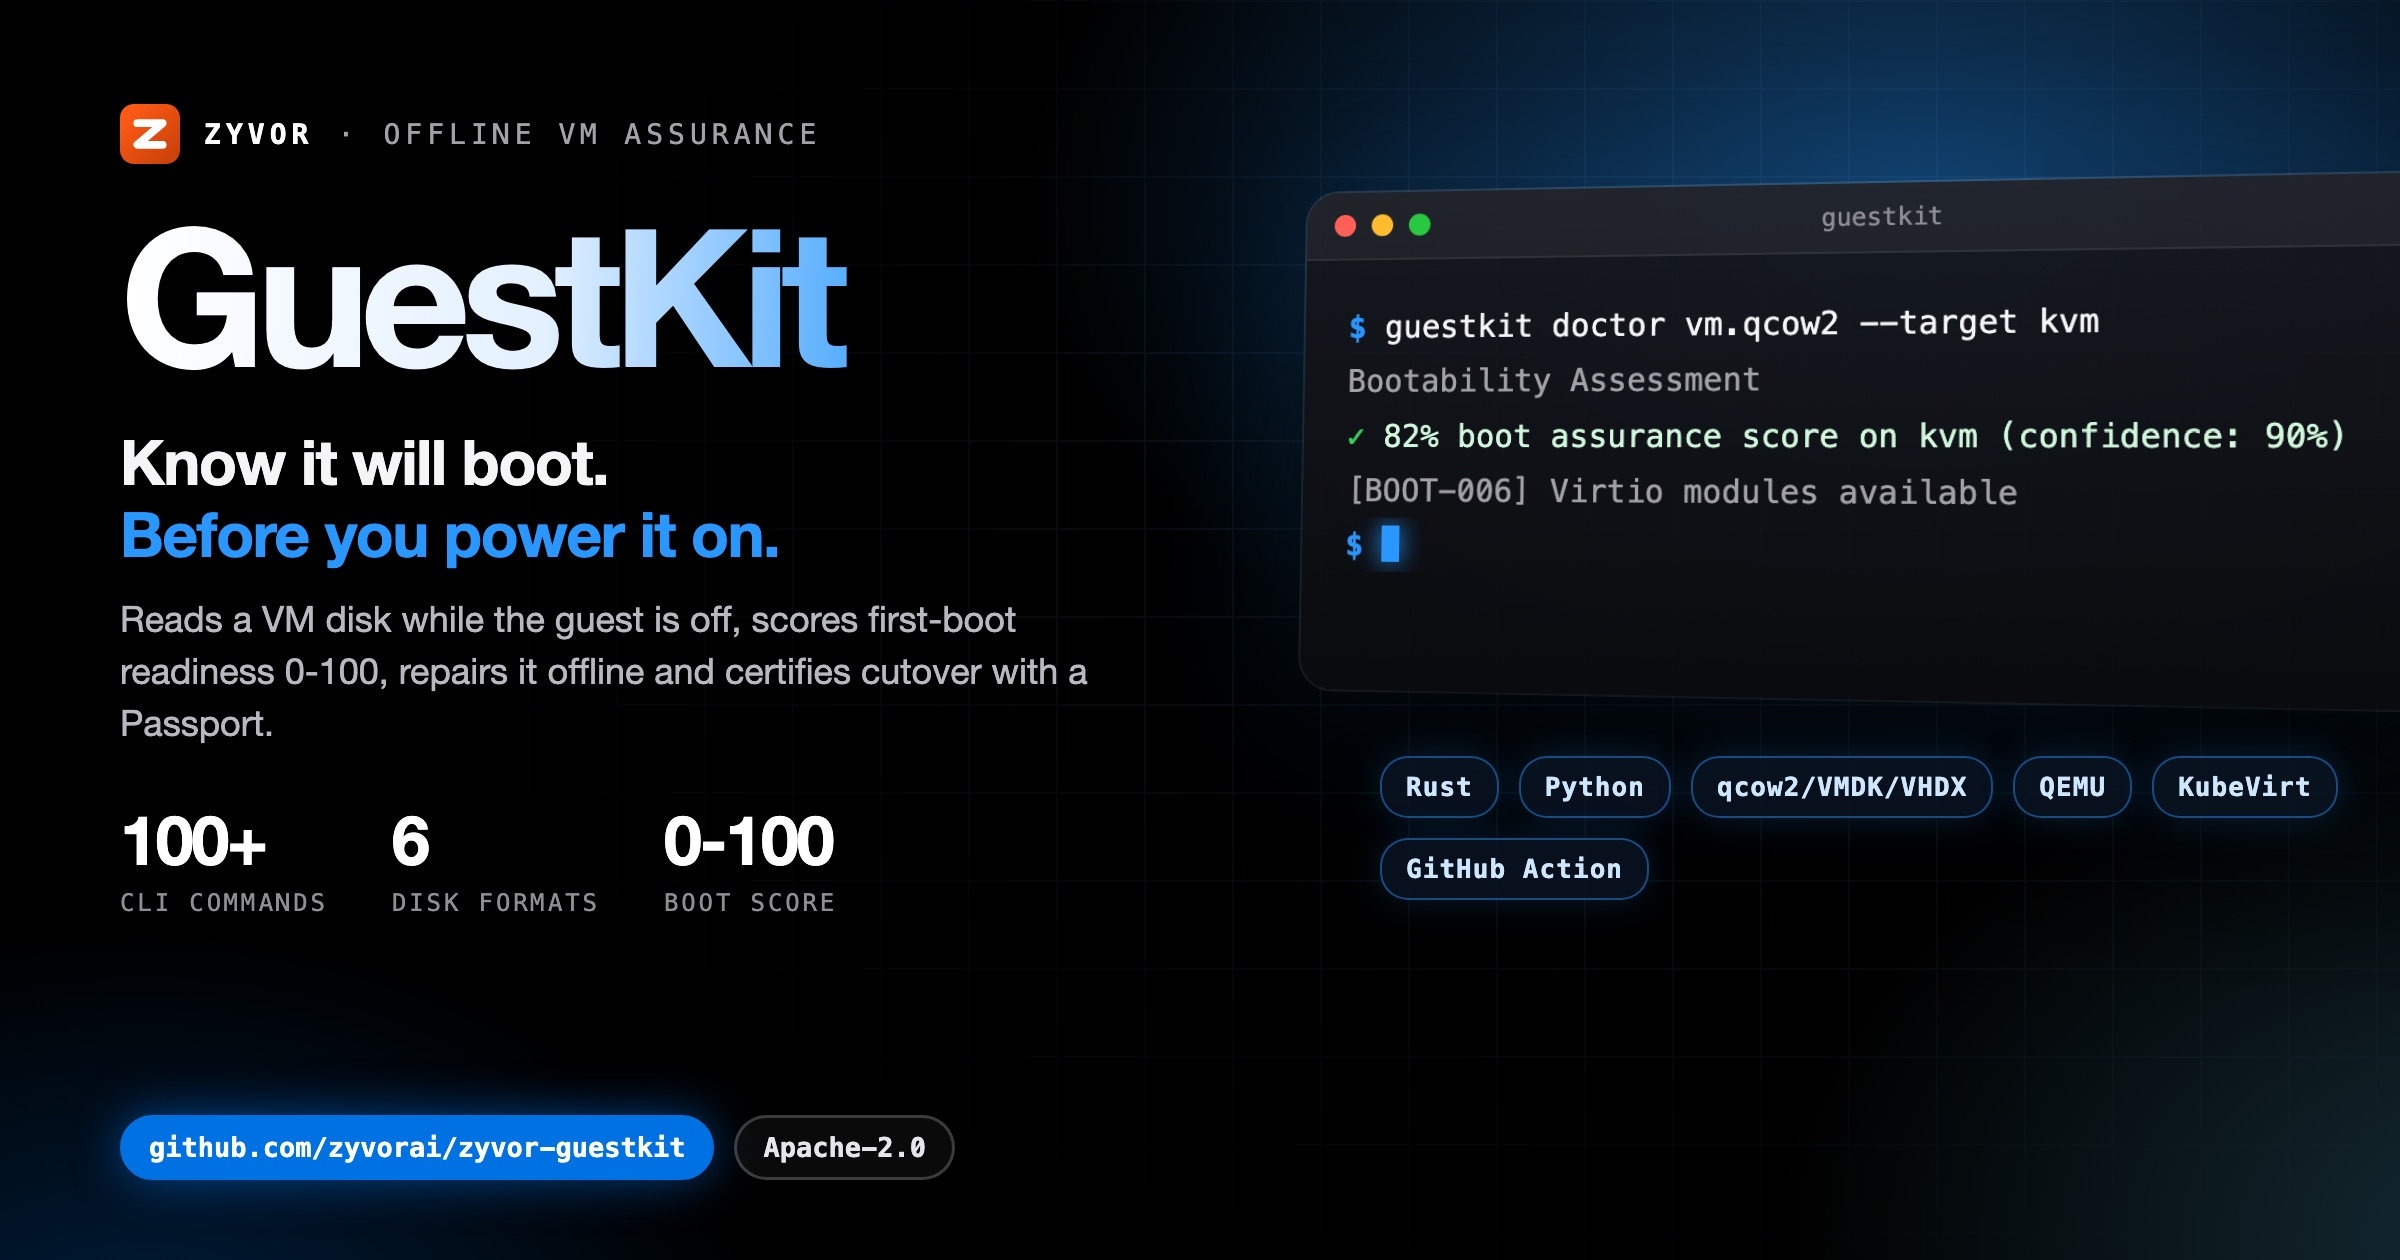
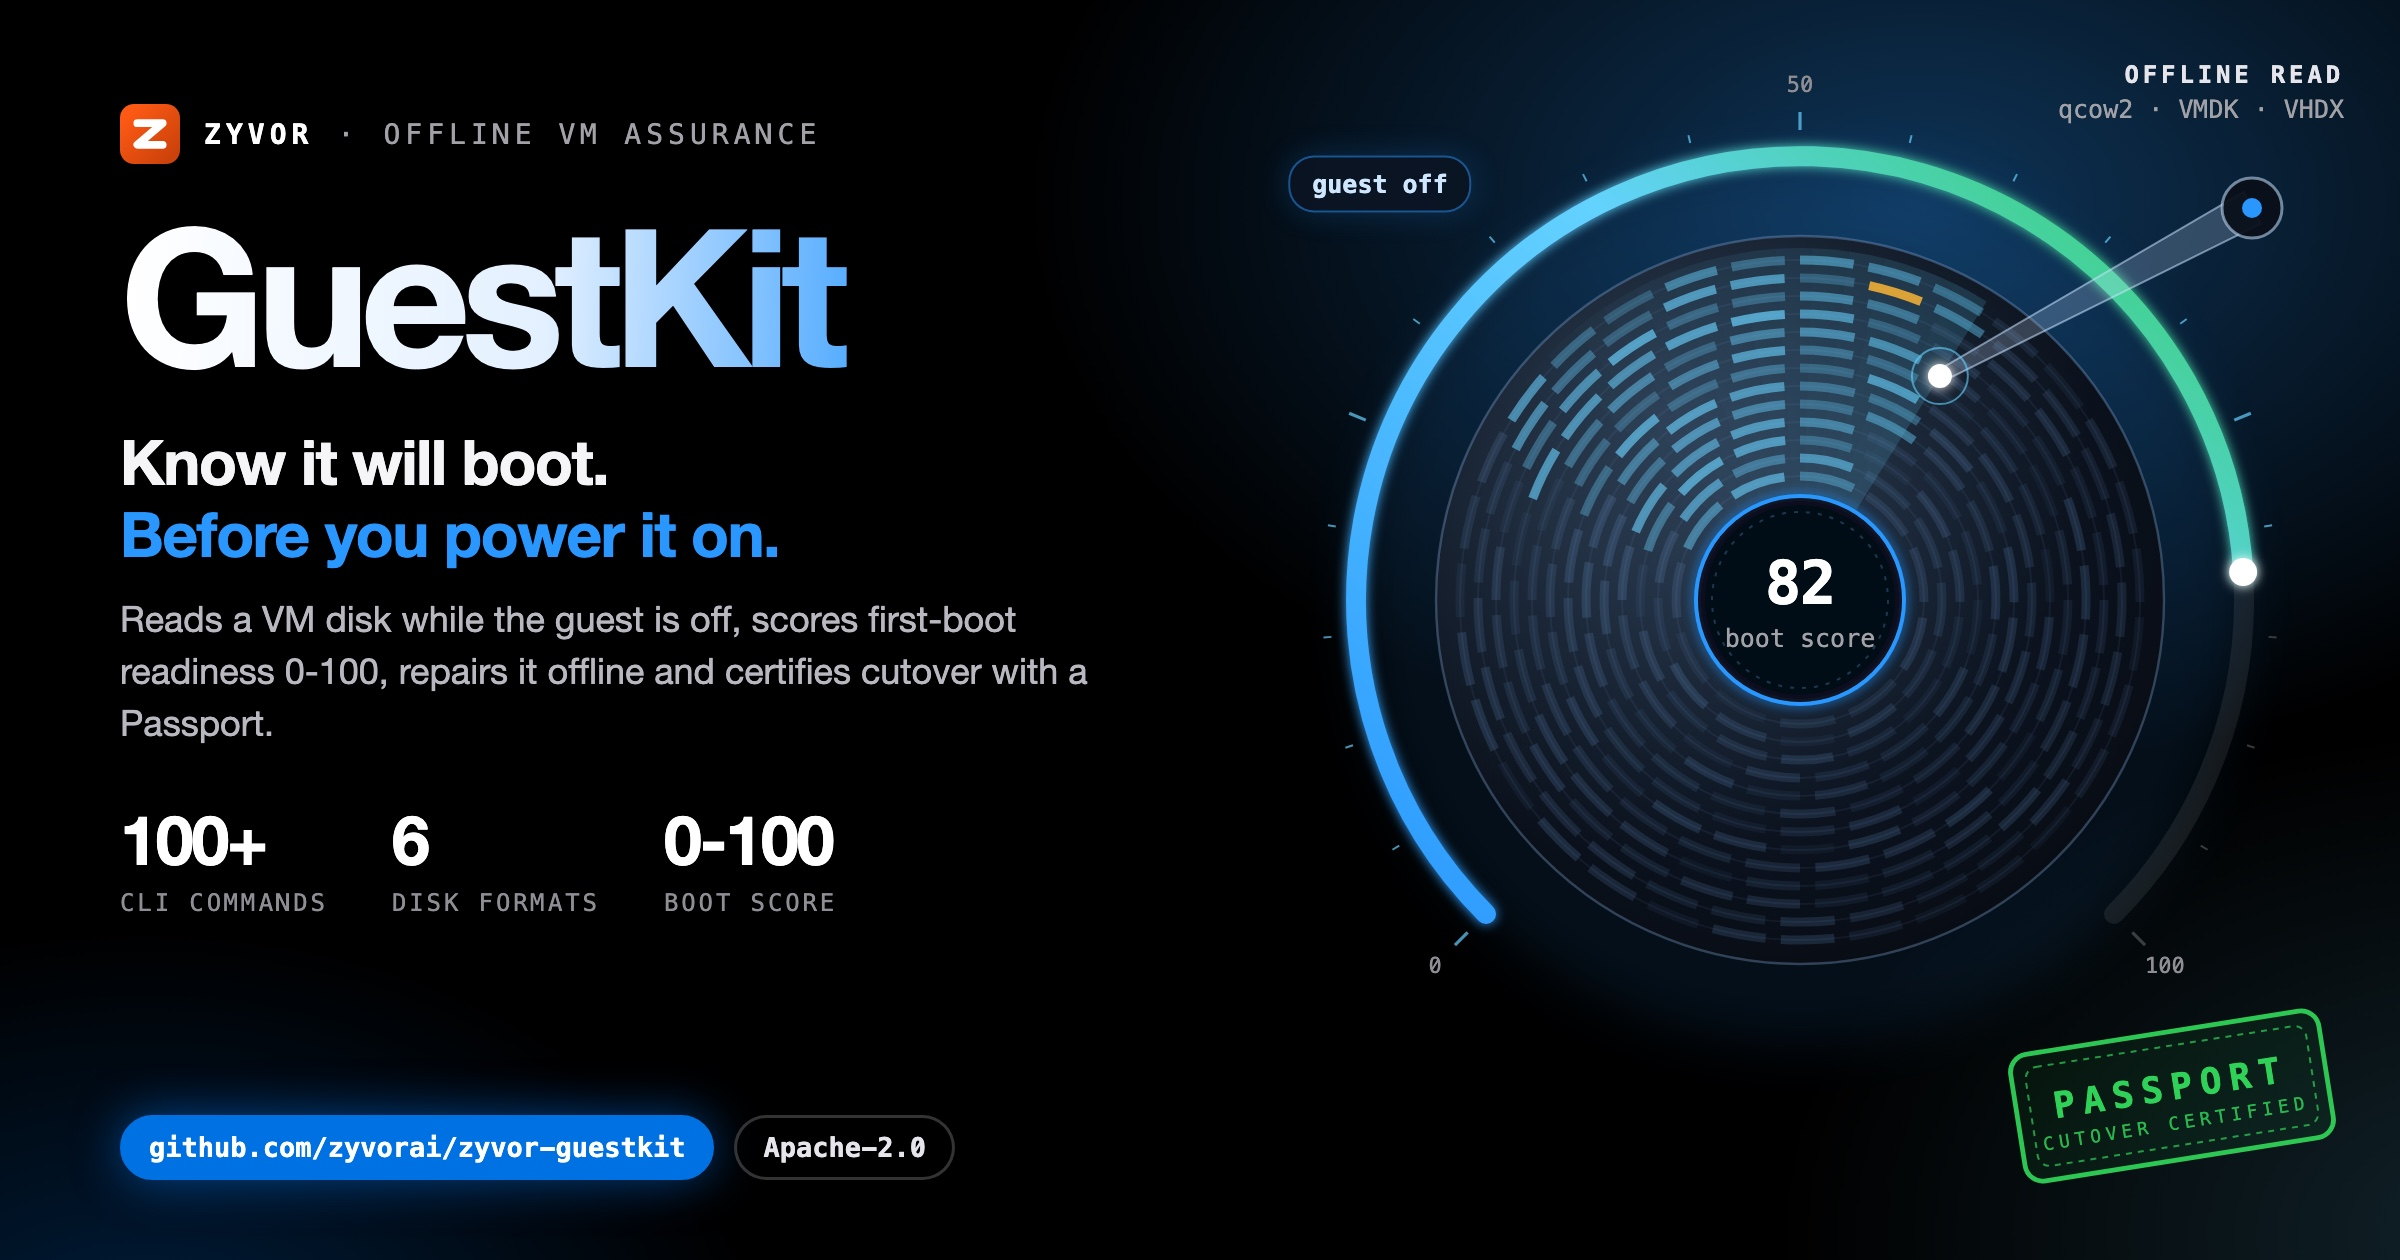
docs(social): unique illustrated hero card
Replace the shared terminal-window art with a motif drawn for this project;
same verified copy and stats on the left.

Changed region(s): [[0.5312, 0.0929, 1.0, 0.8048], [0.8438, 0.8048, 0.9688, 0.9595], [0.8438, 0.031, 0.9688, 0.0929]]

diff --git a/docs/social/guestkit-hero-dark.html b/docs/social/guestkit-hero-dark.html
@@ -8,58 +8,47 @@
   Build: ./docs/social/build-hero-dark.sh  ->  guestkit-hero-dark.jpg (2400x1260)
 -->
 <style>
-  :root { --blue:#0071e3; --signal:#2997ff; --cyan:#64d2ff; --green:#30d158; --amber:#ff9f0a;
+  :root { --blue:#0071e3; --signal:#2997ff; --cyan:#64d2ff; --green:#30d158; --amber:#ff9f0a; --red:#ff453a; --violet:#bf5af2;
     --sans:'SF Pro Display','Helvetica Neue',Helvetica,Arial,sans-serif; --mono:'SF Mono',Menlo,Consolas,monospace; }
   * { box-sizing:border-box; }
   html,body { margin:0; padding:0; }
   body { width:1200px; height:630px; overflow:hidden; color:#f5f5f7; font-family:var(--sans); position:relative; background:#000; }
   .aurora { position:absolute; inset:0;
-    background:radial-gradient(720px 460px at 80% 16%, rgba(41,151,255,.40), transparent 62%),
-               radial-gradient(600px 420px at 104% 98%, rgba(100,210,255,.20), transparent 60%),
+    background:radial-gradient(720px 460px at 80% 16%, rgba(41,151,255,.34), transparent 62%),
+               radial-gradient(600px 420px at 104% 98%, rgba(100,210,255,.16), transparent 60%),
                radial-gradient(520px 380px at 6% 110%, rgba(0,113,227,.28), transparent 60%); }
-  .grid { position:absolute; inset:0; opacity:.09;
-    background-image:linear-gradient(rgba(120,180,255,.9) 1px,transparent 1px),linear-gradient(90deg,rgba(120,180,255,.9) 1px,transparent 1px);
-    background-size:44px 44px; -webkit-mask-image:radial-gradient(900px 520px at 72% 42%, #000 18%, transparent 75%); }
-  .left { position:absolute; left:60px; top:52px; width:560px; z-index:3; }
+  .copy { position:absolute; left:60px; top:52px; width:560px; z-index:3; }
   .brand { display:flex; align-items:center; gap:12px; font-family:var(--mono); font-size:14px; letter-spacing:.18em; text-transform:uppercase; color:#a1a1a6; }
   .brand b { color:#fff; }
   .word { margin:20px 0 0; font-size:96px; line-height:.95; font-weight:800; letter-spacing:-.05em; white-space:nowrap;
     background:linear-gradient(92deg,#fff 0%,#e3f0ff 38%,var(--signal) 74%,var(--cyan) 100%); -webkit-background-clip:text; background-clip:text; color:transparent; padding-bottom:6px; }
   .tag { margin:14px 0 0; font-size:31px; line-height:1.15; font-weight:700; letter-spacing:-.02em; }
   .tag em { font-style:normal; color:var(--signal); }
-  .lede { margin:12px 0 0; font-size:18px; line-height:1.45; color:#b8b8bf; width:520px; }
+  .lede { margin:12px 0 0; font-size:18px; line-height:1.45; color:#b8b8bf; width:520px; text-shadow:0 1px 12px #000; }
   .stats { margin-top:24px; display:flex; gap:32px; }
   .stat b { display:block; font-size:34px; font-weight:800; letter-spacing:-.03em; color:#fff; }
   .stat span { font-family:var(--mono); font-size:12px; letter-spacing:.12em; text-transform:uppercase; color:#8e8e93; }
   .pill { position:absolute; left:60px; bottom:40px; display:flex; gap:10px; z-index:3; }
-  .pill span { font-family:var(--mono); font-size:13.5px; font-weight:700; padding:7px 13px; border-radius:18px; border:1.5px solid rgba(255,255,255,.2); color:#e5e5ea; background:rgba(255,255,255,.04); }
+  .pill span { font-family:var(--mono); font-size:13.5px; font-weight:700; padding:7px 13px; border-radius:18px; border:1.5px solid rgba(255,255,255,.2); color:#e5e5ea; background:rgba(0,0,0,.6); }
   .pill span.b { background:var(--blue); border-color:var(--blue); color:#fff; box-shadow:0 0 24px rgba(0,113,227,.55); }
-
-  .right { position:absolute; left:652px; top:96px; width:560px; z-index:2; }
-  .win { position:relative; width:560px; border-radius:16px; overflow:hidden; z-index:2;
-    background:linear-gradient(180deg, rgba(22,24,30,.94), rgba(10,11,14,.96));
-    box-shadow:0 50px 100px rgba(0,0,0,.75), 0 0 0 1px rgba(255,255,255,.14), 0 0 90px rgba(41,151,255,.22);
-    transform:perspective(1600px) rotateY(-14deg) rotateX(4deg); transform-origin:left center; }
-  .bar { height:34px; display:flex; align-items:center; gap:8px; padding:0 14px; background:rgba(255,255,255,.05); border-bottom:1px solid rgba(255,255,255,.07); }
-  .bar i { width:11px; height:11px; border-radius:50%; background:#ff5f57; } .bar i:nth-child(2){background:#febc2e} .bar i:nth-child(3){background:#28c840}
-  .bar em { margin-left:auto; margin-right:auto; font-style:normal; font-family:var(--mono); font-size:12px; color:#8e8e93; transform:translateX(-24px); }
-  .term { min-height:214px; padding:20px 22px 24px; font-family:var(--mono); font-size:15.5px; line-height:1.75; }
-  .l { white-space:pre; overflow:hidden; text-overflow:ellipsis; color:#f5f5f7; }
-  .l .p { color:var(--signal); font-weight:700; }
-  .l.out { color:#a1a1a6; }
-  .l.cm { color:#6e6e73; }
-  .l.ok { color:#d1f7dc; } .l.ok span { color:var(--green); font-weight:700; }
-  .l.warn { color:#ffe1b0; } .l.warn span { color:var(--amber); font-weight:700; }
-  .cur { display:inline-block; width:9px; height:18px; background:var(--signal); vertical-align:-3px; box-shadow:0 0 12px var(--signal); }
-  .chips { margin:34px 0 0 38px; width:480px; display:flex; flex-wrap:wrap; gap:10px; position:relative; z-index:3; }
-  .chips span { font-family:var(--mono); font-size:13px; font-weight:700; letter-spacing:.04em; padding:7px 12px; border-radius:14px;
-    color:#cfe6ff; background:rgba(10,20,35,.82); border:1px solid rgba(41,151,255,.45); box-shadow:0 0 18px rgba(41,151,255,.18); }
+  .art { position:absolute; left:520px; top:0; width:680px; height:630px; z-index:2; }
+  .art svg { display:block; }
+  #labels { position:absolute; inset:0; z-index:4; pointer-events:none; }
+  .lbl { position:absolute; font-family:var(--mono); font-size:12.5px; color:#a1a1a6; text-align:center; transform:translate(-50%,-50%); white-space:nowrap; }
+  .lbl b { display:block; font-size:12px; letter-spacing:.16em; text-transform:uppercase; color:#e5e5ea; }
+  .lbl span { display:block; margin-top:3px; }
+  .lbl.box { padding:7px 12px; border-radius:12px; background:rgba(8,10,14,.85); border:1px solid rgba(255,255,255,.14); }
+  .lbl.chip { padding:6px 11px; border-radius:13px; font-size:12.5px; font-weight:700; color:#cfe6ff; background:rgba(10,20,35,.85); border:1px solid rgba(41,151,255,.5); box-shadow:0 0 16px rgba(41,151,255,.2); }
+  .lbl.left { transform:translate(0,-50%); text-align:left; }
+  .lbl.right { transform:translate(-100%,-50%); text-align:right; }
+  .ok { color:var(--green) !important; } .warn { color:var(--amber) !important; } .bad { color:var(--red) !important; } .sig { color:var(--signal) !important; } .cy { color:var(--cyan) !important; } .vi { color:var(--violet) !important; }
 </style>
 </head>
 <body>
 <div class="aurora"></div>
-<div class="grid"></div>
-<div class="left">
+<div class="art"><svg id="art" width="680" height="630" viewBox="0 0 680 630" xmlns="http://www.w3.org/2000/svg"></svg></div>
+<div id="labels"></div>
+<div class="copy">
   <div class="brand"><svg viewBox="0 0 64 64" width="30" height="30" aria-hidden="true"><defs><linearGradient id="zb" x1="8" y1="8" x2="56" y2="56" gradientUnits="userSpaceOnUse"><stop offset="0" stop-color="#ff5a15"/><stop offset="1" stop-color="#cc420a"/></linearGradient></defs><rect width="64" height="64" rx="15" fill="url(#zb)"/><path d="M18.5,20.5 45.5,20.5 18.5,43.5 45.5,43.5" fill="none" stroke="#fff" stroke-width="8.3" stroke-linecap="round" stroke-linejoin="round"/></svg><b>Zyvor</b><span>&middot;</span><span>Offline VM assurance</span></div>
   <div class="word">GuestKit</div>
   <div class="tag">Know it will boot.<br><em>Before you power it on.</em></div>
@@ -67,8 +56,95 @@
   <div class="stats"><div class="stat"><b>100+</b><span>CLI commands</span></div><div class="stat"><b>6</b><span>disk formats</span></div><div class="stat"><b>0-100</b><span>boot score</span></div></div>
 </div>
 <div class="pill"><span class="b">github.com/zyvorai/zyvor-guestkit</span><span>Apache-2.0</span></div>
-<div class="right"><div class="win"><div class="bar"><i></i><i></i><i></i><em>guestkit</em></div>
-<div class="term"><div class="l"><span class="p">$</span> guestkit doctor vm.qcow2 --target kvm</div><div class="l out">Bootability Assessment</div><div class="l ok"><span>&#10003;</span> 82% boot assurance score on kvm (confidence: 90%)</div><div class="l out">[BOOT-006] Virtio modules available</div><div class="l"><span class="p">$</span> <i class="cur"></i></div></div></div>
-<div class="chips"><span>Rust</span><span>Python</span><span>qcow2/VMDK/VHDX</span><span>QEMU</span><span>KubeVirt</span><span>GitHub Action</span></div></div>
+<script>
+var Z = (function () {
+  var NS = 'http://www.w3.org/2000/svg', svg = document.getElementById('art'), labels = document.getElementById('labels');
+  var seed = 20261004;
+  function rnd() { seed = (seed * 1103515245 + 12345) % 2147483648; return seed / 2147483648; }
+  function el(tag, a, parent) { var n = document.createElementNS(NS, tag); for (var k in a) n.setAttribute(k, a[k]); (parent || svg).appendChild(n); return n; }
+  function g(attrs) { return el('g', attrs || {}); }
+  function label(x, y, inner, cls, style) { var d = document.createElement('div'); d.className = 'lbl ' + (cls || ''); d.style.left = (520 + x) + 'px'; d.style.top = y + 'px'; if (style) d.setAttribute('style', d.getAttribute('style') + ';' + style); d.innerHTML = inner; labels.appendChild(d); return d; }
+  return { NS: NS, svg: svg, W: 680, H: 630, rnd: rnd, el: el, g: g, label: label,
+    reseed: function (s) { seed = s; },
+    c: { blue: '#0071e3', signal: '#2997ff', cyan: '#64d2ff', green: '#30d158', amber: '#ff9f0a', red: '#ff453a', violet: '#bf5af2', teal: '#40c8e0', indigo: '#5e5ce6', pink: '#ff375f', white: '#f5f5f7', grey: '#8e8e93' } };
+})();
+(function () {
+// GuestKit: a powered-off disk platter read under a scanning head, wrapped by a 0-100 boot readiness gauge, with a Passport stamp.
+var C = Z.c, cx = 380, cy = 300, R = 182, D2R = Math.PI / 180;
+var defs = Z.el('defs', {});
+defs.innerHTML = '<filter id="gkgl" x="-50%" y="-50%" width="200%" height="200%"><feGaussianBlur stdDeviation="3" result="b"/><feMerge><feMergeNode in="b"/><feMergeNode in="SourceGraphic"/></feMerge></filter>' +
+  '<filter id="gksf" x="-50%" y="-50%" width="200%" height="200%"><feGaussianBlur stdDeviation="14"/></filter>' +
+  '<radialGradient id="gkpl" cx=".42" cy=".38" r=".7"><stop offset="0" stop-color="#1c2a3d"/><stop offset=".55" stop-color="#0d1522"/><stop offset="1" stop-color="#070b12"/></radialGradient>' +
+  '<radialGradient id="gksheen" cx=".3" cy=".25" r=".6"><stop offset="0" stop-color="#9fd0ff" stop-opacity=".16"/><stop offset="1" stop-color="#9fd0ff" stop-opacity="0"/></radialGradient>' +
+  '<linearGradient id="gkarc" x1="0" y1="1" x2="1" y2="0"><stop offset="0" stop-color="#2997ff"/><stop offset=".6" stop-color="#64d2ff"/><stop offset="1" stop-color="#30d158"/></linearGradient>';
+function pt(r, a) { return [cx + r * Math.cos(a * D2R), cy + r * Math.sin(a * D2R)]; }
+function arc(r, a0, a1) {
+  var p = pt(r, a0), q = pt(r, a1), big = (a1 - a0) > 180 ? 1 : 0;
+  return 'M' + p[0].toFixed(1) + ',' + p[1].toFixed(1) + ' A' + r + ',' + r + ' 0 ' + big + ' 1 ' + q[0].toFixed(1) + ',' + q[1].toFixed(1);
+}
+Z.el('circle', { cx: cx, cy: cy, r: R + 40, fill: C.signal, opacity: .1, filter: 'url(#gksf)' });
+// platter
+Z.el('circle', { cx: cx, cy: cy, r: R, fill: 'url(#gkpl)', stroke: 'rgba(160,200,255,.28)', 'stroke-width': 1.2 });
+var headA = -58, scanFrom = headA - 95;
+for (var r = 62; r <= R - 10; r += 9) {
+  Z.el('circle', { cx: cx, cy: cy, r: r, fill: 'none', stroke: 'rgba(140,190,255,.07)', 'stroke-width': 1 });
+  var n = Math.round(r / 5.5), step = 360 / n;
+  for (var s = 0; s < n; s++) {
+    var a0 = s * step - 90, a1 = a0 + step * 0.78, mid = a0 + step / 2, v = Z.rnd();
+    var norm = ((mid - scanFrom) % 360 + 360) % 360, scanned = norm < (headA - scanFrom);
+    var col = 'rgba(120,170,230,1)', op = 0.05 + v * 0.12;
+    if (scanned) { col = C.cyan; op = 0.25 + v * 0.45; }
+    if (v > 0.985 && scanned) { col = C.amber; op = 0.95; }
+    Z.el('path', { d: arc(r, a0, a1), fill: 'none', stroke: col, 'stroke-width': 4.5, opacity: op.toFixed(2) });
+  }
+}
+// scan wedge trailing the head
+for (var k = 0; k < 14; k++) {
+  var w0 = headA - (k + 1) * 6, w1 = headA - k * 6;
+  var p0 = pt(R - 6, w0), p1 = pt(R - 6, w1);
+  Z.el('path', { d: 'M' + cx + ',' + cy + ' L' + p0[0].toFixed(1) + ',' + p0[1].toFixed(1) + ' A' + (R - 6) + ',' + (R - 6) + ' 0 0 1 ' + p1[0].toFixed(1) + ',' + p1[1].toFixed(1) + 'Z',
+    fill: C.cyan, opacity: (0.16 * (1 - k / 14)).toFixed(3) });
+}
+Z.el('circle', { cx: cx, cy: cy, r: R, fill: 'url(#gksheen)' });
+// spindle hub
+Z.el('circle', { cx: cx, cy: cy, r: 52, fill: 'rgba(6,10,18,.95)', stroke: C.signal, 'stroke-width': 2, filter: 'url(#gkgl)' });
+Z.el('circle', { cx: cx, cy: cy, r: 44, fill: 'none', stroke: 'rgba(120,185,255,.25)', 'stroke-dasharray': '2 4' });
+// readiness gauge 0..100 around the platter
+var GR = 222, g0 = 135, gs = 270, score = 82;
+Z.el('path', { d: arc(GR, g0, g0 + gs), fill: 'none', stroke: 'rgba(255,255,255,.08)', 'stroke-width': 10, 'stroke-linecap': 'round' });
+Z.el('path', { d: arc(GR, g0, g0 + gs * score / 100), fill: 'none', stroke: 'url(#gkarc)', 'stroke-width': 10, 'stroke-linecap': 'round', filter: 'url(#gkgl)' });
+for (var t = 0; t <= 100; t += 5) {
+  var ta = g0 + gs * t / 100, a = pt(GR + 13, ta), b = pt(GR + (t % 25 === 0 ? 22 : 17), ta);
+  Z.el('line', { x1: a[0], y1: a[1], x2: b[0], y2: b[1], stroke: t <= score ? 'rgba(100,210,255,.7)' : 'rgba(255,255,255,.22)', 'stroke-width': t % 25 === 0 ? 1.6 : 1 });
+}
+[0, 50, 100].forEach(function (t) {
+  var p = pt(GR + 36, g0 + gs * t / 100);
+  var tx = Z.el('text', { x: p[0], y: p[1] + 4, 'text-anchor': 'middle', fill: '#8e8e93', 'font-family': 'SF Mono, Menlo, monospace', 'font-size': 11 });
+  tx.textContent = t;
+});
+var ep = pt(GR, g0 + gs * score / 100);
+Z.el('circle', { cx: ep[0], cy: ep[1], r: 7, fill: '#fff', filter: 'url(#gkgl)' });
+// read head arm
+var pv = [606, 104], hp = pt(132, headA);
+var ang = Math.atan2(hp[1] - pv[1], hp[0] - pv[0]), nx = -Math.sin(ang), ny = Math.cos(ang);
+Z.el('path', { d: 'M' + (pv[0] + nx * 9) + ',' + (pv[1] + ny * 9) + ' L' + (hp[0] + nx * 3) + ',' + (hp[1] + ny * 3) + ' L' + (hp[0] - nx * 3) + ',' + (hp[1] - ny * 3) + ' L' + (pv[0] - nx * 9) + ',' + (pv[1] - ny * 9) + 'Z',
+  fill: 'rgba(200,225,255,.22)', stroke: 'rgba(200,225,255,.55)', 'stroke-width': 1 });
+Z.el('circle', { cx: pv[0], cy: pv[1], r: 15, fill: 'rgba(10,16,26,.95)', stroke: 'rgba(200,225,255,.55)', 'stroke-width': 1.5 });
+Z.el('circle', { cx: pv[0], cy: pv[1], r: 5, fill: C.signal });
+Z.el('circle', { cx: hp[0], cy: hp[1], r: 6, fill: '#fff', filter: 'url(#gkgl)' });
+Z.el('circle', { cx: hp[0], cy: hp[1], r: 14, fill: 'none', stroke: C.cyan, opacity: .6 });
+// passport stamp
+var st = Z.el('g', { transform: 'translate(566,548) rotate(-9)' });
+Z.el('rect', { x: -78, y: -32, width: 156, height: 64, rx: 9, fill: 'rgba(48,209,88,.07)', stroke: C.green, 'stroke-width': 2.4, opacity: .95 }, st);
+Z.el('rect', { x: -71, y: -25, width: 142, height: 50, rx: 6, fill: 'none', stroke: C.green, 'stroke-width': 1, 'stroke-dasharray': '3 3', opacity: .7 }, st);
+var t1 = Z.el('text', { x: 0, y: 2, 'text-anchor': 'middle', fill: C.green, 'font-family': 'SF Mono, Menlo, monospace', 'font-size': 18, 'font-weight': 800, 'letter-spacing': 4 }, st);
+t1.textContent = 'PASSPORT';
+var t2 = Z.el('text', { x: 0, y: 17, 'text-anchor': 'middle', fill: C.green, 'font-family': 'SF Mono, Menlo, monospace', 'font-size': 9, 'letter-spacing': 2.5, opacity: .85 }, st);
+t2.textContent = 'CUTOVER CERTIFIED';
+Z.label(cx, cy, '<b style="font-size:30px;letter-spacing:-.02em;color:#fff">82</b><span>boot score</span>');
+Z.label(652, 46, '<b>offline read</b><span>qcow2 &middot; VMDK &middot; VHDX</span>', 'right');
+Z.label(170, 92, 'guest off', 'chip');
+})();
+</script>
 </body>
 </html>
